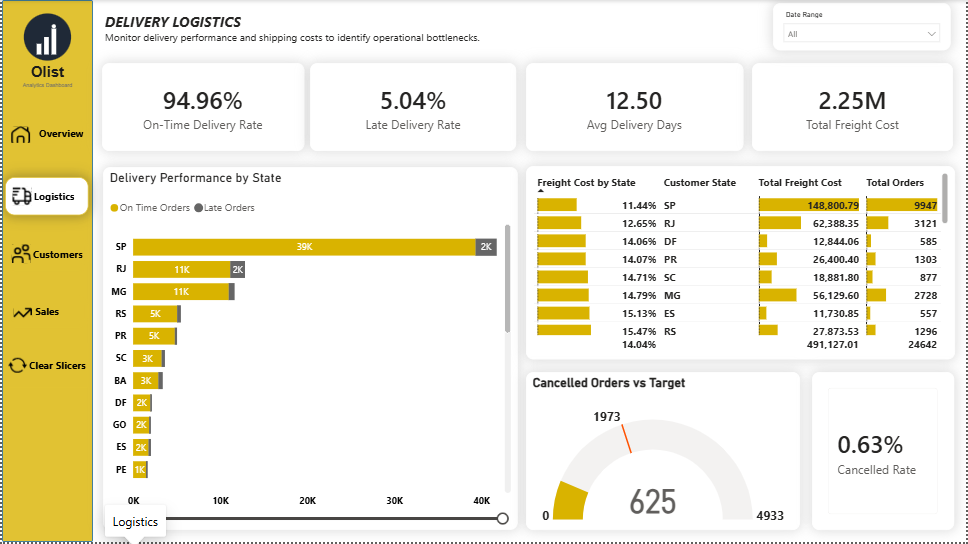
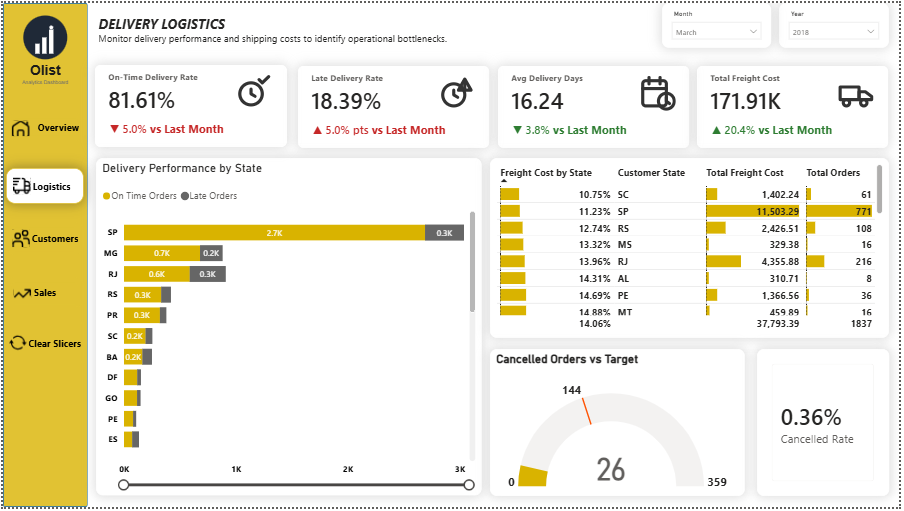
updated olist

diff --git a/06_olist_analytics_dashboard_powerbi/README.md b/06_olist_analytics_dashboard_powerbi/README.md
@@ -2,23 +2,19 @@
 
 A Power BI project built on the real Olist Brazilian e-commerce dataset — from nine raw CSVs to a working data model and a four-page interactive dashboard.
 
-![Dashboard Overview](images/overview.png)
+![Dashboard Overview](./images/overview.png)
 
-📁 **[Download the .pbix file](https://drive.google.com/file/d/1X94o5F5H_EYCXwcdtVMtHVfJEPCGzg13/view?usp=sharing)** — too large for GitHub, hosted externally.
-
----
+📁 [Download the .pbix file](#) — 
 
 ## Project Overview
 
-Olist, a Brazilian multi-category e-commerce marketplace. 
+Olist, a Brazilian multi-category e-commerce marketplace.
 
 **KPIs covered:** Revenue and order volume, delivery performance (on-time vs. late), review scores, seller performance, payment behavior, freight cost, repeat purchase rate.
 
 **Known limitations of the dataset:**
 - No "Returns" concept — Olist doesn't track product returns.
 - No product cost/COGS — only revenue and freight can be calculated, not true profit.
-
----
 
 ## 1. Source Data
 
@@ -36,8 +32,6 @@ Nine CSVs, loaded individually via Get Data → Text/CSV, organized into Power Q
 | Geolocation | Dimension | Aggregated to 1 row per zip prefix |
 | ProductCategory | Lookup | Portuguese → English category translation |
 
----
-
 ## 2. Data Cleaning
 
 - **Orders:** null delivery dates left intentionally blank — they indicate the order was never delivered, which is signal, not dirty data.
@@ -47,28 +41,20 @@ Nine CSVs, loaded individually via Get Data → Text/CSV, organized into Power Q
 - **OrderReviews:** duplicate `review_id`s found and removed.
 - **OrderPayments:** verified no null/zero installment values.
 
----
-
 ## 3. Data Model
 
 Star schema: 4 fact tables, 5 dimension tables, 1 Calendar table.
 
-![Data model diagram](images/data-modeling.png)
+![Data Model Diagram](./images/data-modeling.png)
 
 **Notable relationship decisions:**
 - Customers → Geolocation kept active; Sellers → Geolocation set inactive (ambiguous path otherwise), activated via `USERELATIONSHIP()` when needed.
 - OrderItems → Orders relationship set to bidirectional filtering, required for category-level filters to reach Orders and OrderReviews correctly.
-
-**Calendar table:** built by anchoring to a clean `DATEVALUE()` column in Orders (`order_purchase_timestamp` was a full datetime, which didn't match a date-only Calendar table on relationship). Marked as the official Date Table.
-
----
+- Calendar table: built by anchoring to a clean `DATEVALUE()` column in Orders (`order_purchase_timestamp` was a full datetime, which didn't match a date-only Calendar table on relationship). Marked as the official Date Table.
 
 ## 4. DAX Measures
 
-![Measures list](images/measures1.png)
-![Measures list](images/measures2.png)
-
-22 measures total, organized into three display folders.
+25+ measures organized into three display folders (Sales, Logistics, Customer), plus a nested **MoM Comparisons** sub-folder under each for month-over-month trend indicators.
 
 ### Customer
 ```dax
@@ -161,35 +147,196 @@ DIVIDE(
 - On-Time Delivery Rate: 95%
 - Avg Review Score: 4.09
 
----
+## 5. Trend Indicators (Month-over-Month)
 
-## 5. Report Pages
+Every headline KPI card carries a color-coded MoM trend label (▲ green / ▼ red), computed and colored entirely in DAX — no visual-level conditional formatting rules. Each indicator follows a consistent 3-measure pattern: a prior-month reference measure, a label measure (arrow + formatted % or pts), and a color measure (hex string bound via Field Value formatting).
+
+**Pattern:** every KPI gets 3 measures — a prior-month reference, a label (arrow + formatted value), and a color (hex string via Field Value formatting).
+
+### Sales 
+```dax
+Total Revenue PM = 
+CALCULATE([Total Revenue], PREVIOUSMONTH('Calendar'[Date]))
+
+Revenue MoM Label = 
+VAR Change = DIVIDE([Total Revenue] - [Total Revenue PM], [Total Revenue PM])
+RETURN IF(Change >= 0, "▲ " & FORMAT(Change, "0.0%"), "▼ " & FORMAT(ABS(Change), "0.0%"))
+
+Revenue MoM Color = 
+IF([Total Revenue] >= [Total Revenue PM], "#2E7D32", "#C62828")
+
+
+Total Orders PM = 
+CALCULATE([Total Orders], PREVIOUSMONTH('Calendar'[Date]))
+
+Orders MoM Label = 
+VAR Change = DIVIDE([Total Orders] - [Total Orders PM], [Total Orders PM])
+RETURN IF(Change >= 0, "▲ " & FORMAT(Change, "0.0%"), "▼ " & FORMAT(ABS(Change), "0.0%"))
+
+Orders MoM Color = 
+IF([Total Orders] >= [Total Orders PM], "#2E7D32", "#C62828")
+
+
+Avg Order Value PM = 
+CALCULATE([Avg Order Value], PREVIOUSMONTH('Calendar'[Date]))
+
+AOV MoM Label = 
+VAR Change = DIVIDE([Avg Order Value] - [Avg Order Value PM], [Avg Order Value PM])
+RETURN IF(Change >= 0, "▲ " & FORMAT(Change, "0.0%"), "▼ " & FORMAT(ABS(Change), "0.0%"))
+
+AOV MoM Color = 
+IF([Avg Order Value] >= [Avg Order Value PM], "#2E7D32", "#C62828")
+
+
+Total Items Sold PM = 
+CALCULATE([Total Items Sold], PREVIOUSMONTH('Calendar'[Date]))
+
+Items Sold MoM Label = 
+VAR Change = DIVIDE([Total Items Sold] - [Total Items Sold PM], [Total Items Sold PM])
+RETURN IF(Change >= 0, "▲ " & FORMAT(Change, "0.0%"), "▼ " & FORMAT(ABS(Change), "0.0%"))
+
+Items Sold MoM Color = 
+IF([Total Items Sold] >= [Total Items Sold PM], "#2E7D32", "#C62828")
+```
+
+### Logistics
+```dax
+On-Time Delivery Rate PM = 
+CALCULATE([On-Time Delivery Rate], PREVIOUSMONTH('Calendar'[Date]))
+
+On-Time Delivery Rate MoM Label = 
+VAR Change = [On-Time Delivery Rate] - [On-Time Delivery Rate PM]
+RETURN IF(Change >= 0, "▲ " & FORMAT(Change, "0.0%") & " pts", "▼ " & FORMAT(ABS(Change), "0.0%") & " pts")
+
+On-Time Delivery Rate MoM Color = 
+IF([On-Time Delivery Rate] >= [On-Time Delivery Rate PM], "#2E7D32", "#C62828")
+
+
+Late Delivery Rate PM = 
+CALCULATE([Late Delivery Rate], PREVIOUSMONTH('Calendar'[Date]))
+
+Late Delivery Rate MoM Label = 
+VAR Change = [Late Delivery Rate] - [Late Delivery Rate PM]
+RETURN IF(Change >= 0, "▲ " & FORMAT(Change, "0.0%") & " pts", "▼ " & FORMAT(ABS(Change), "0.0%") & " pts")
+
+Late Delivery Rate MoM Color = 
+IF([Late Delivery Rate] <= [Late Delivery Rate PM], "#2E7D32", "#C62828")
+
+
+Avg Delivery Days PM = 
+CALCULATE([Avg Delivery Days], PREVIOUSMONTH('Calendar'[Date]))
+
+Delivery Days MoM Label = 
+VAR Change = DIVIDE([Avg Delivery Days] - [Avg Delivery Days PM], [Avg Delivery Days PM])
+RETURN IF(Change >= 0, "▲ " & FORMAT(Change, "0.0%"), "▼ " & FORMAT(ABS(Change), "0.0%"))
+
+Delivery Days MoM Color = 
+IF([Avg Delivery Days] <= [Avg Delivery Days PM], "#2E7D32", "#C62828")
+
+
+Total Freight Cost PM = 
+CALCULATE([Total Freight Cost], PREVIOUSMONTH('Calendar'[Date]))
+
+Freight MoM Label = 
+VAR Change = DIVIDE([Total Freight Cost] - [Total Freight Cost PM], [Total Freight Cost PM])
+RETURN IF(Change >= 0, "▲ " & FORMAT(Change, "0.0%"), "▼ " & FORMAT(ABS(Change), "0.0%"))
+
+Freight MoM Color = 
+IF([Total Freight Cost] >= [Total Freight Cost PM], "#2E7D32", "#C62828")
+
+
+Cancelled Rate PM = 
+CALCULATE([Cancelled Rate], PREVIOUSMONTH('Calendar'[Date]))
+
+Cancelled Rate MoM Label = 
+VAR Change = [Cancelled Rate] - [Cancelled Rate PM]
+RETURN IF(Change >= 0, "▲ " & FORMAT(Change, "0.0%") & " pts", "▼ " & FORMAT(ABS(Change), "0.0%") & " pts")
+
+Cancelled Rate MoM Color = 
+IF([Cancelled Rate] <= [Cancelled Rate PM], "#2E7D32", "#C62828")
+```
+
+### Customer
+```dax
+Avg Review Score PM = 
+CALCULATE([Avg Review Score], PREVIOUSMONTH('Calendar'[Date]))
+
+Review Score MoM Label = 
+VAR Change = DIVIDE([Avg Review Score] - [Avg Review Score PM], [Avg Review Score PM])
+RETURN IF(Change >= 0, "▲ " & FORMAT(Change, "0.0%"), "▼ " & FORMAT(ABS(Change), "0.0%"))
+
+Review Score MoM Color = 
+IF([Avg Review Score] >= [Avg Review Score PM], "#2E7D32", "#C62828")
+
+
+Total Reviews PM = 
+CALCULATE([Total Reviews], PREVIOUSMONTH('Calendar'[Date]))
+
+Reviews MoM Label = 
+VAR Change = DIVIDE([Total Reviews] - [Total Reviews PM], [Total Reviews PM])
+RETURN IF(Change >= 0, "▲ " & FORMAT(Change, "0.0%"), "▼ " & FORMAT(ABS(Change), "0.0%"))
+
+Reviews MoM Color = 
+IF([Total Reviews] >= [Total Reviews PM], "#2E7D32", "#C62828")
+
+
+Repeat Purchase Rate PM = 
+CALCULATE([Repeat Purchase Rate], PREVIOUSMONTH('Calendar'[Date]))
+
+Repeat Rate MoM Label = 
+VAR Change = [Repeat Purchase Rate] - [Repeat Purchase Rate PM]
+RETURN IF(Change >= 0, "▲ " & FORMAT(Change, "0.0%") & " pts", "▼ " & FORMAT(ABS(Change), "0.0%") & " pts")
+
+Repeat Rate MoM Color = 
+IF([Repeat Purchase Rate] >= [Repeat Purchase Rate PM], "#2E7D32", "#C62828")
+```
+
+Applied across all pages:
+
+| KPI | Comparison basis | "Up" direction |
+|---|---|---|
+| Total Revenue | % change | Good (green) |
+| Total Orders | % change | Good (green) |
+| Avg Order Value | % change | Good (green) |
+| Total Items Sold | % change | Good (green) |
+| Avg Review Score | % change | Good (green) |
+| Total Reviews | % change | Good (green) |
+| Repeat Purchase Rate | Percentage-point diff | Good (green) |
+| On-Time Delivery Rate | Percentage-point diff | Good (green) |
+| Late Delivery Rate | Percentage-point diff | **Bad (red)** — flipped |
+| Cancelled Rate | Percentage-point diff | **Bad (red)** — flipped |
+| Total Freight Cost | % change | Good (green) |
+| Avg Delivery Days | % change | **Bad (red) when up** — flipped |
+
+Rate-based KPIs (On-Time, Late, Cancelled, Repeat Purchase) compare as raw **percentage-point difference** rather than a percentage-of-a-percentage, since "rate of a rate" change is misleading. Metrics where a higher number is operationally worse (Late Delivery Rate, Cancelled Rate, Avg Delivery Days) have their color logic inverted so red still means "this got worse," not just "the number went up."
+
+**MoM design decision:** month-over-month was chosen over year-over-year because the dataset's real order volume only spans ~Jan 2017–Oct 2018, leaving too few full-year overlaps for a reliable YoY comparison. MoM gives every month a valid prior-month baseline across the full date range.
+
+## 6. Report Pages
 
 Four pages, built with a shared sidebar navigation.
 
 ### Business Overview
-KPI cards, revenue trend, order status breakdown, top categories.
+KPI cards with MoM trend indicators, revenue trend (drillable Year → Quarter → Month → Date), order status breakdown, top categories.
 
-![Overview page](images/overview.png)
+![Overview page](./images/overview.png)
 
 ### Sales Analysis
-Revenue by category, drill-down product leaderboard ranked by revenue, monthly trend.
+Revenue by category, drill-down product leaderboard ranked by revenue, monthly trend, KPI cards with MoM indicators.
 
-![Sales page](images/sales.png)
+![Sales page](./images/sales.png)
 
 ### Delivery Logistics
-On-time vs. late delivery by state, freight cost as % of order value, cancelled orders gauge benchmarked against a dynamic target.
+On-time vs. late delivery by state, freight cost as % of order value, cancelled orders gauge benchmarked against a dynamic target, KPI cards with MoM indicators.
 
-![Logistics page](images/logistics.png)
+![Logistics page](./images/logistics.png)
 
 ### Customer & Reviews
-Review score distribution, average score by product category.
+Review score distribution, average score by product category, KPI cards with MoM indicators.
 
-![Customers page](images/customers.png)
+![Customers page](./images/customers.png)
 
----
-
-## 6. Notable Issues Solved
+## 7. Notable Issues Solved
 
 | Issue | Root Cause | Fix |
 |---|---|---|
@@ -197,14 +344,16 @@ Review score distribution, average score by product category.
 | Calendar chart showing near-zero matches | Date-only Calendar column vs. full datetime Orders column | Added `DATEVALUE()` column, related on that instead |
 | RANKX showing "1" for every row in a matrix | Measure grain mismatch after adding a category grouping level | Wrapped in `ISINSCOPE()` to only rank at product-level |
 | Donut chart order count didn't match KPI card | Field pulled from OrderItems (fewer rows) instead of Orders | Switched Value field to `Orders[order_id]` |
+| Line chart collapsed to a single dot when filtered to one month | X-axis field matched the slicer's field (Month), leaving one category to plot | Rebuilt axis on `Calendar[Date]` (or full hierarchy) instead of `MonthName` |
+| Line chart showed weekday buckets ("June Friday", "June Monday"...) instead of chronological days | Hierarchy's bottom level was `DayName` (text field) instead of `Date` | Swapped hierarchy's last level to `Calendar[Date]` |
+| Revenue trend zigzagged wildly when Month filter was applied with Year set to "All" | Chart was plotting the same month across multiple unrelated years as one continuous line | Removed "All" as a default; scoped Year slicer to valid years only |
+| Line chart showed a horizontal scrollbar at wide date ranges | Continuous axis type unavailable while a multi-level date hierarchy was on the X-axis | Dropped hierarchy in favor of a single `Calendar[Date]` field, enabling Continuous axis mode |
 
----
-
-## 7. Open Items / Next Steps
+## 8. Open Items / Next Steps
 
 - One-day revenue spike around March 4, 2017 (~12,658.51) — flagged for further investigation.
-- Deprioritized for a future iteration: time intelligence (YoY, rolling averages), dynamic KPI selector, Power Apps/Automate integration.
+- Deprioritized for a future iteration: year-over-year comparisons (once more overlapping years exist in scope), dynamic KPI selector, Power Apps/Automate integration.
 
-## 8. Tools Used
+## 9. Tools Used
 
 Power BI Desktop — Power Query, DAX, Data Modeling, Report Design.
